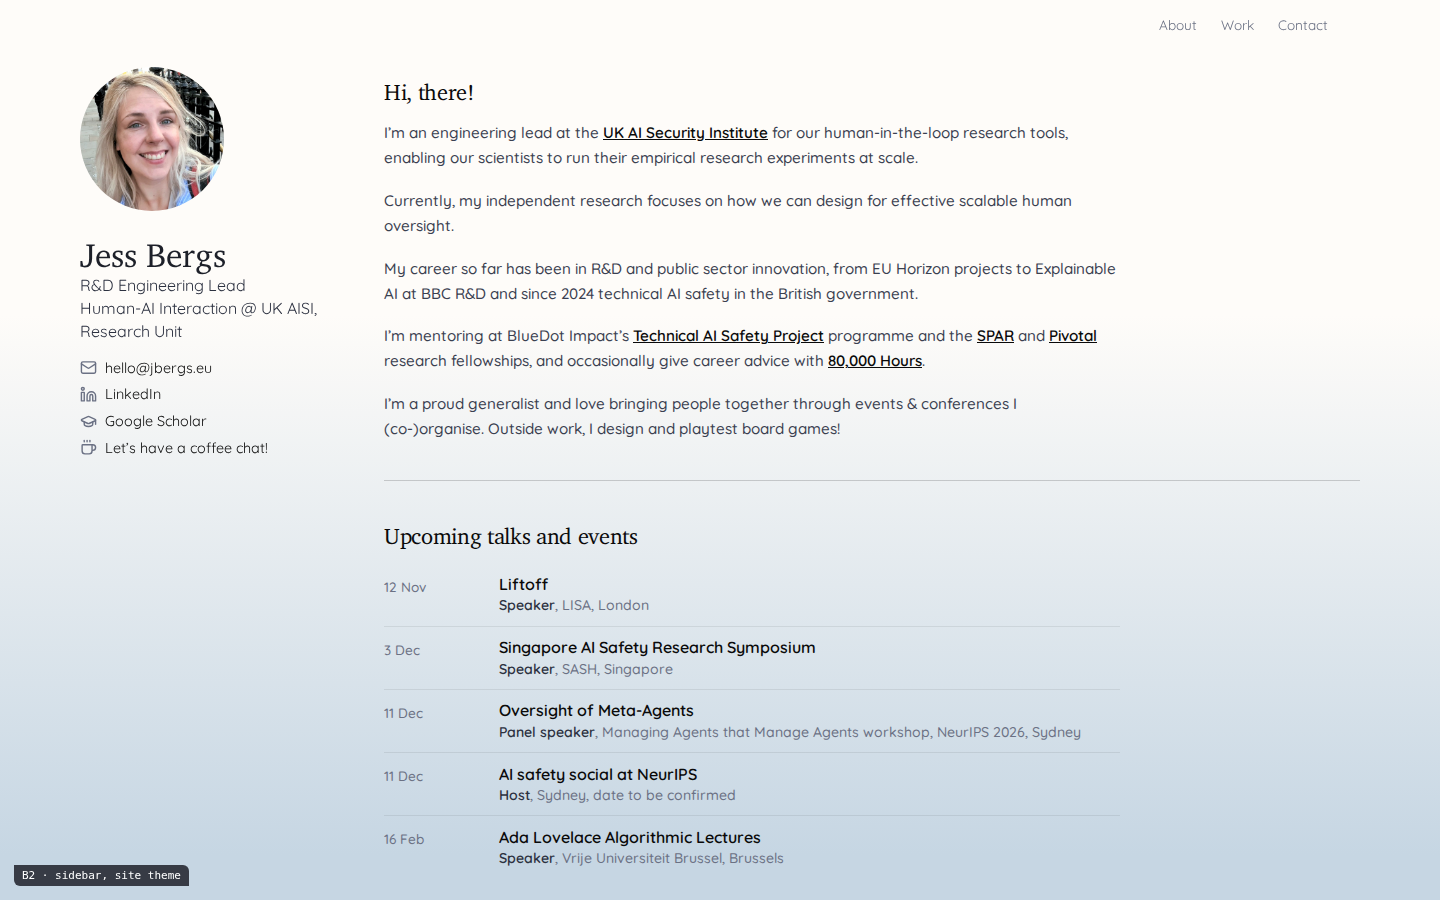
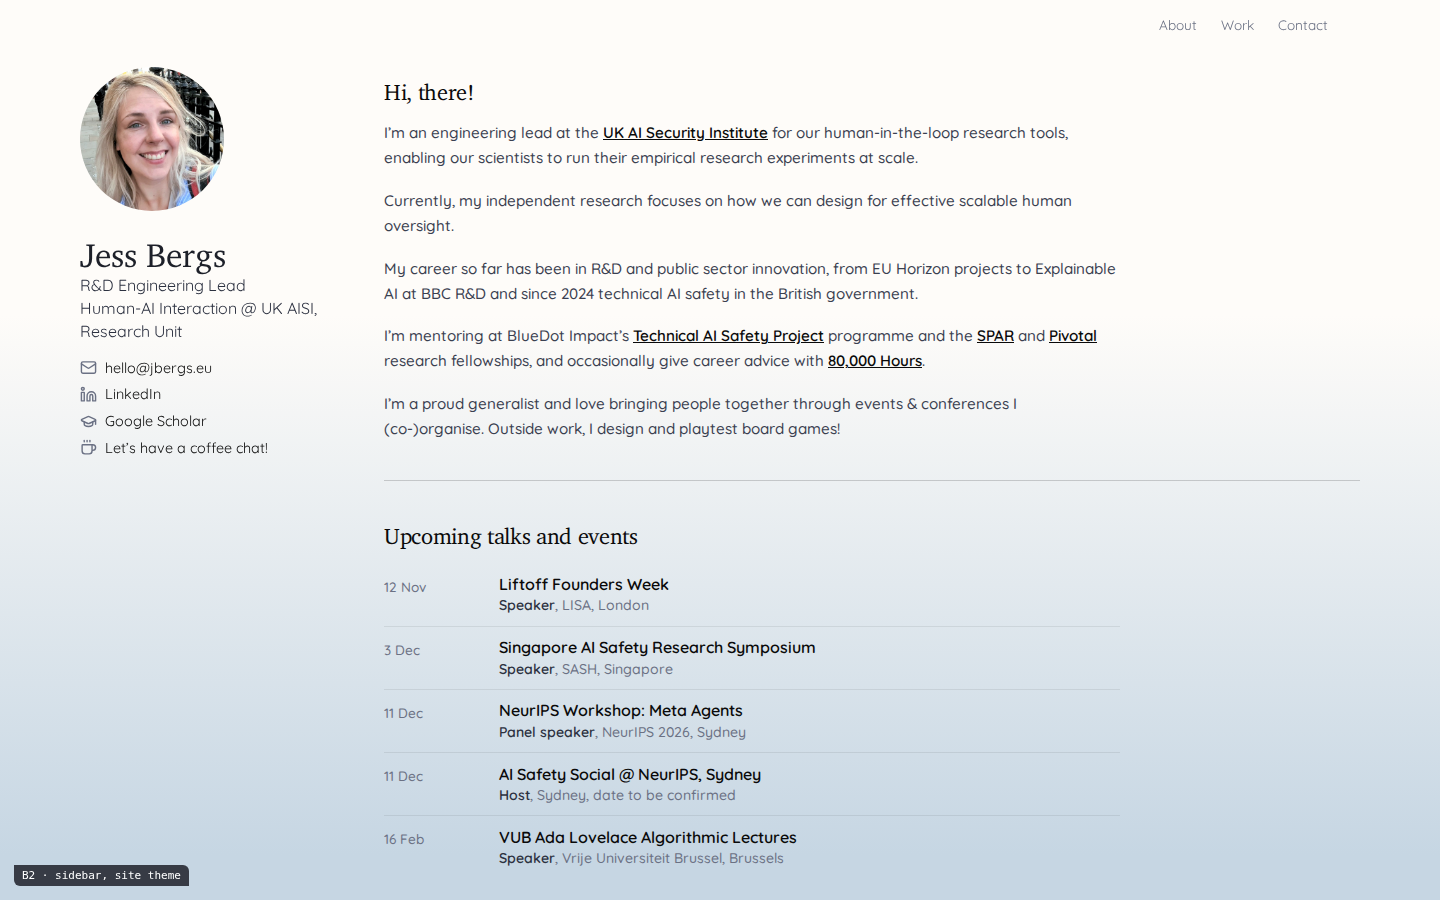
design: upcoming event names as Jess wrote them

Changed region(s): [[0.3438, 0.7778, 0.75, 0.8711], [0.3438, 0.9022, 0.5625, 0.9644], [0.375, 0.6222, 0.4688, 0.6533]]

diff --git a/docs/design/2026-11-academic-concepts/b2-sidebar-site-theme.html b/docs/design/2026-11-academic-concepts/b2-sidebar-site-theme.html
@@ -105,11 +105,11 @@
 <script>
   const esc = (s) => String(s).replace(/&/g, '&amp;').replace(/</g, '&lt;');
   const UP = [
-    { date: '12 Nov', title: 'Liftoff', role: 'Speaker', org: 'LISA', place: 'London', href: 'https://www.joinliftoff.ai/' },
+    { date: '12 Nov', title: 'Liftoff Founders Week', role: 'Speaker', org: 'LISA', place: 'London', href: 'https://www.joinliftoff.ai/' },
     { date: '3 Dec', title: 'Singapore AI Safety Research Symposium', role: 'Speaker', org: 'SASH', place: 'Singapore', href: 'https://www.aisafety.sg/' },
-    { date: '11 Dec', title: 'Oversight of Meta-Agents', role: 'Panel speaker', org: 'Managing Agents that Manage Agents workshop, NeurIPS 2026', place: 'Sydney', href: 'https://meta-agents-workshop.github.io/' },
-    { date: '11 Dec', title: 'AI safety social at NeurIPS', role: 'Host', place: 'Sydney', tbc: true, href: '#' },
-    { date: '16 Feb', title: 'Ada Lovelace Algorithmic Lectures', role: 'Speaker', org: 'Vrije Universiteit Brussel', place: 'Brussels', href: 'https://data.research.vub.be/ada-lovelace-algorithmic-lectures' },
+    { date: '11 Dec', title: 'NeurIPS Workshop: Meta Agents', role: 'Panel speaker', org: 'NeurIPS 2026', place: 'Sydney', href: 'https://meta-agents-workshop.github.io/' },
+    { date: '11 Dec', title: 'AI Safety Social @ NeurIPS, Sydney', role: 'Host', org: '', place: 'Sydney', tbc: true, href: '#' },
+    { date: '16 Feb', title: 'VUB Ada Lovelace Algorithmic Lectures', role: 'Speaker', org: 'Vrije Universiteit Brussel', place: 'Brussels', href: 'https://data.research.vub.be/ada-lovelace-algorithmic-lectures' },
   ];
   document.getElementById('up').innerHTML = UP.map((u) => `
     <div class="row"><div class="d">${esc(u.date)}</div><div class="t"><a class="ti" href="${u.href}">${esc(u.title)}</a><span class="m"><b>${esc(u.role)}</b>${u.org ? ', ' + esc(u.org) : ''}${u.place ? ', ' + esc(u.place) : ''}${u.tbc ? ', date to be confirmed' : ''}${u.note ? ', ' + esc(u.note) : ''}</span></div></div>`).join('');
